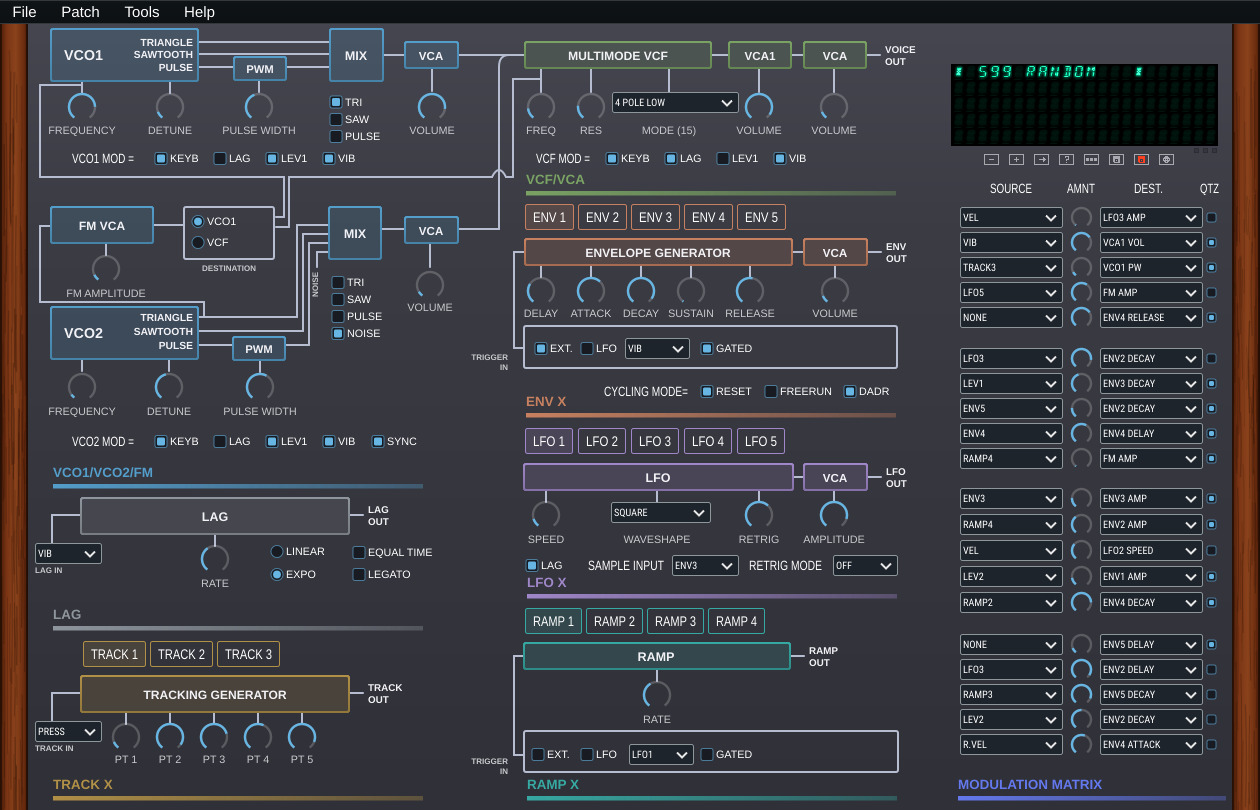
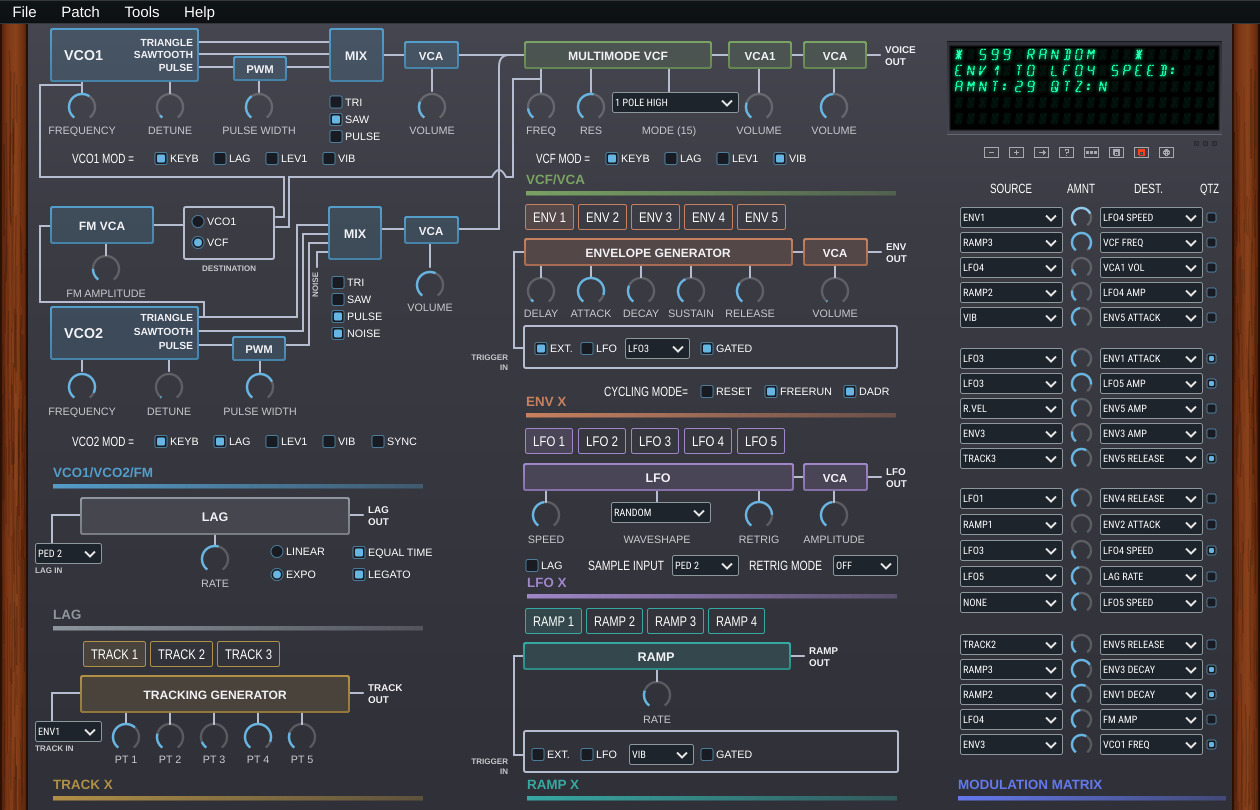
ADR-JUC-024/TASK-DSP-008 refresh the README screenshot with the bezelled display
README.XplorerFullScreen.jpg still showed the pre-bezel display. Recaptured at
the launch geometry (1260x810, same dimensions and encoding as before, so the
README layout is unchanged) with the application in a state that exercises what
the last two sessions added:

- Patch > Randomize, so every block and the whole modulation matrix carry values
  rather than defaults;
- a modulation entry selected, so the display reads
  '* S99 RANDOM * / ENV1 TO LFO4 SPEED: / AMNT:29 QTZ:N' instead of an idle
  tone line - which shows the vector 16-segment glyphs, the two-dot colon and
  the recessed bezel all at once.

diff --git a/process/3.plan/10-Phase-10-VFD-bezel.md b/process/3.plan/10-Phase-10-VFD-bezel.md
@@ -41,6 +41,7 @@ restated in the tasks below so the plan stands on its own.
 | TASK-DSP-005 | Verify against the approved mockup | S | RQ-GUI-050, RQ-GUI-022 |
 | TASK-DSP-006 | Square the bezel corners (uninitialised-memory defect) | S | RQ-GUI-050, DEC-JUC-062 |
 | TASK-DSP-007 | Align on the VCF frame's visible edge | S | RQ-GUI-050, DEC-JUC-059 |
+| TASK-DSP-008 | Refresh the README screenshot | S | RQ-GUI-050 |
 
 ---
 
@@ -293,3 +294,21 @@ looking for the frame's *visible* edge rather than its nominal one, showed a
 constant 1 px error. Same shape of gap as the one the owner caught in session
 VFD: a verification narrow enough to pass while the thing it claims to check is
 wrong.
+
+### TASK-DSP-008: Refresh the README screenshot
+- **Tier**: S
+- **Status**: **Done** — owner request, mid-plan.
+- **Description**: `README.XplorerFullScreen.jpg` still showed the pre-bezel
+  display. Recapture at the launch geometry with the application in a state that
+  exercises what the last two sessions added: a randomised patch (so every block
+  and the whole modulation matrix carry values) and a selected modulation entry
+  (so the display shows `SRC TO DEST` / `AMNT` / `QTZ` rather than an idle line).
+- **Requirement refs**: RQ-GUI-050, RQ-GUI-020
+- **ADR refs**: ADR-JUC-024
+- **Acceptance Criteria**:
+  - *Given* the new image, *When* it is compared with the old, *Then* it has the
+    same dimensions (1260×810) and encoding, so the README layout is unchanged.
+  - *Given* the new image, *When* the display is read, *Then* it shows a
+    modulation entry, and the bezel is visible around it.
+- **Dependencies**: TASK-DSP-007
+- **Assignee**: AI
